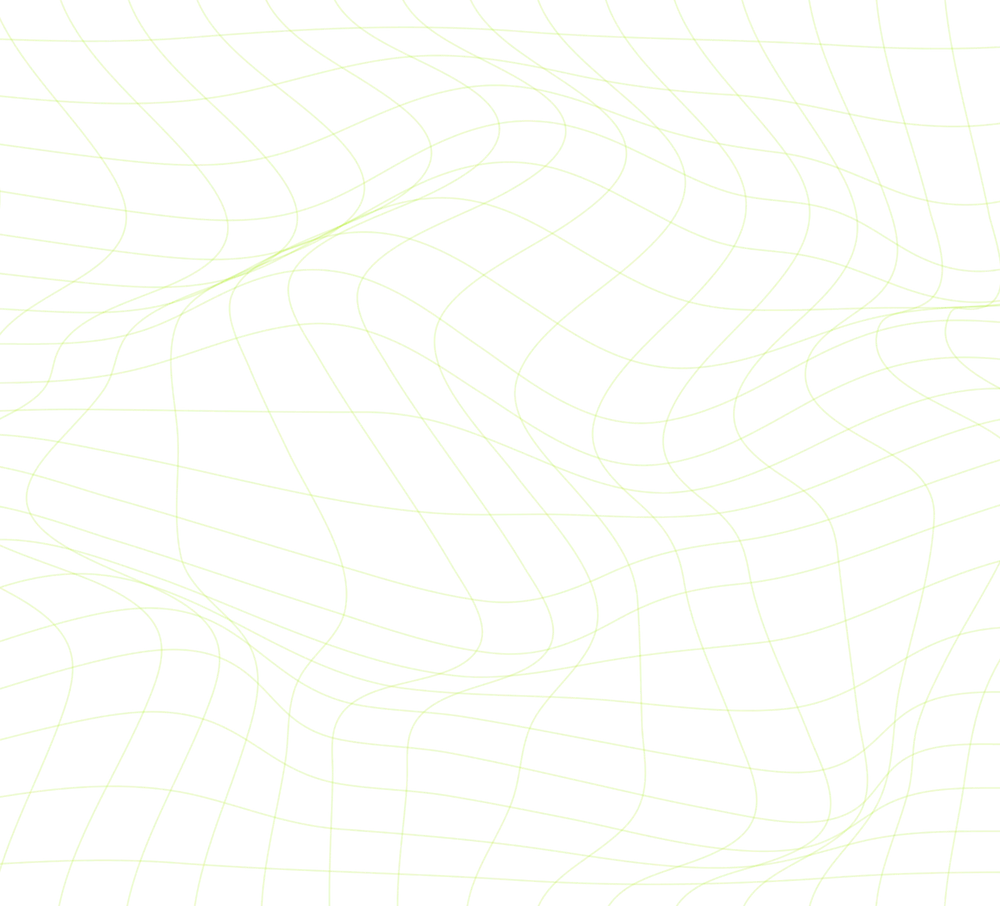
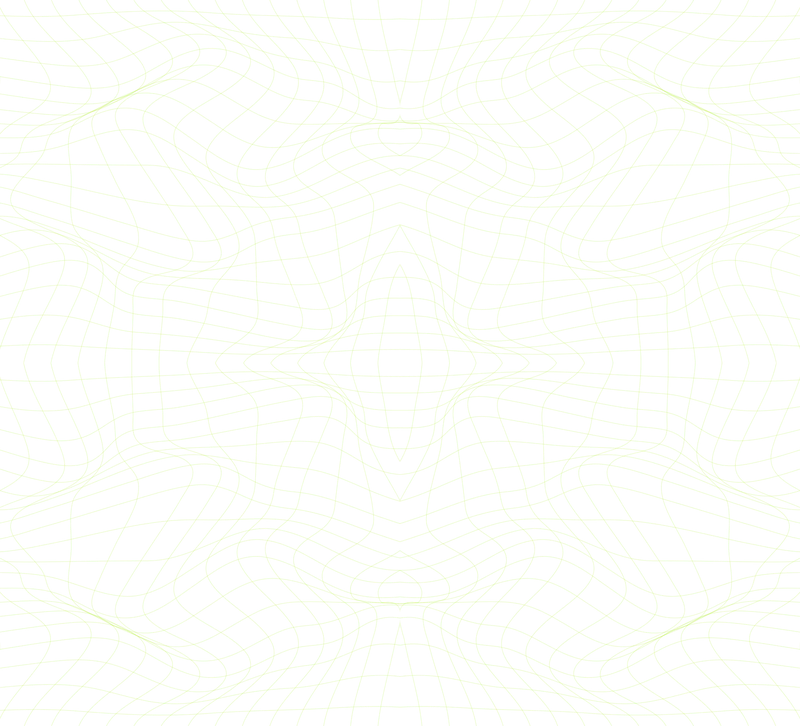
Keep the mesh at one size on every card
Stretched to cover, the grid was sized by the card: fine on a small one,
coarse across a wide band. The artwork is now mirrored in both directions
so it tiles without a seam, and is laid at a fixed 900px - the same cell
size wherever it appears.

diff --git a/src/app/globals.css b/src/app/globals.css
@@ -338,7 +338,12 @@ body {
  *
  * The artwork itself, not a CSS mask: masks are subject to the image's
  * origin, and an effect that silently disappears in one browser is worse
- * than a slightly larger file. 267 KB, in line with the other hero art.
+ * than a slightly larger file. 260 KB, in line with the other hero art.
+ *
+ * Tiled at a fixed size rather than stretched to cover: `cover` sized the
+ * grid to the card, so the same mesh came out fine on a small card and
+ * coarse across a wide one. The file is mirrored in both directions, which
+ * is what lets it repeat without a seam.
  *
  * It moves with the page rather than on a timer - MeshParallax writes
  * `--mesh-p` as the card crosses the viewport, and the tilt and drift are
@@ -355,9 +360,9 @@ body {
   position: absolute;
   inset: -20%;
   background-image: url("/mesh.webp");
-  background-size: cover;
+  background-size: 900px auto;
   background-position: center;
-  background-repeat: no-repeat;
+  background-repeat: repeat;
   opacity: 0.55;
   pointer-events: none;
   /* The perspective is what keeps it three-dimensional: the grid leans away
